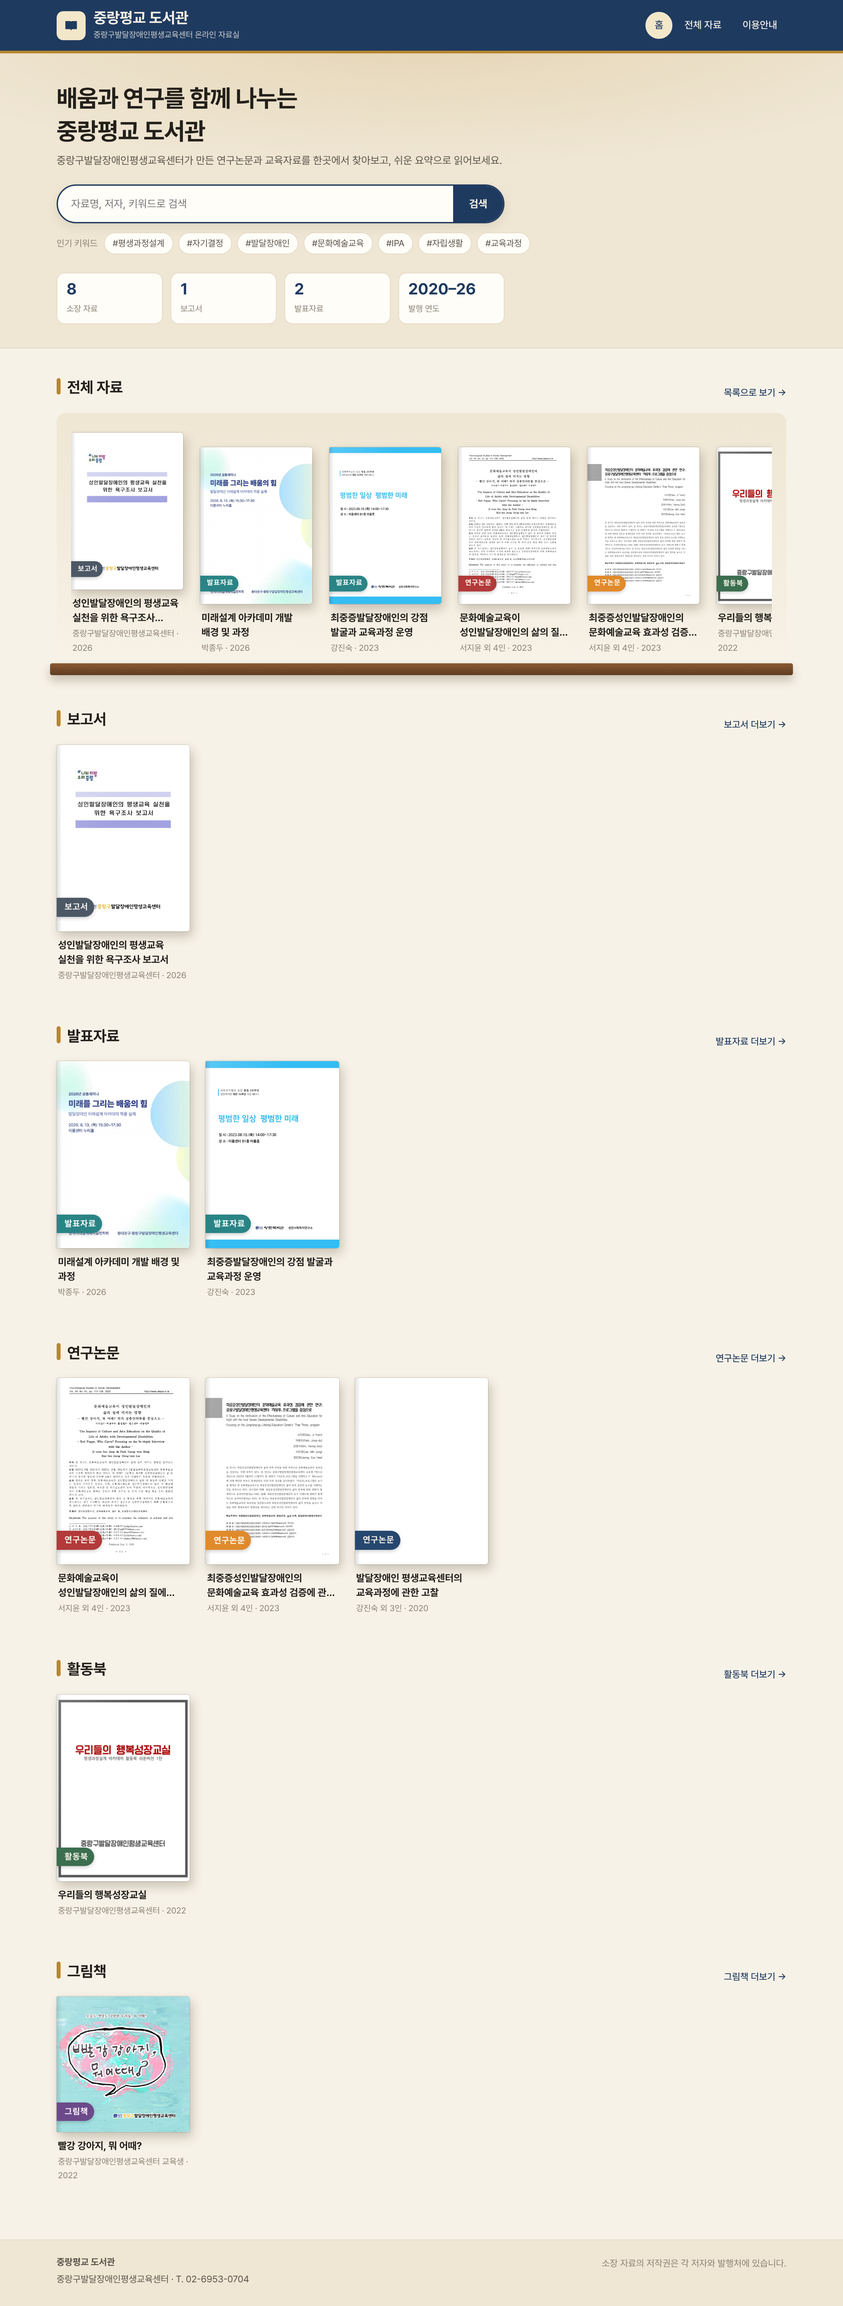
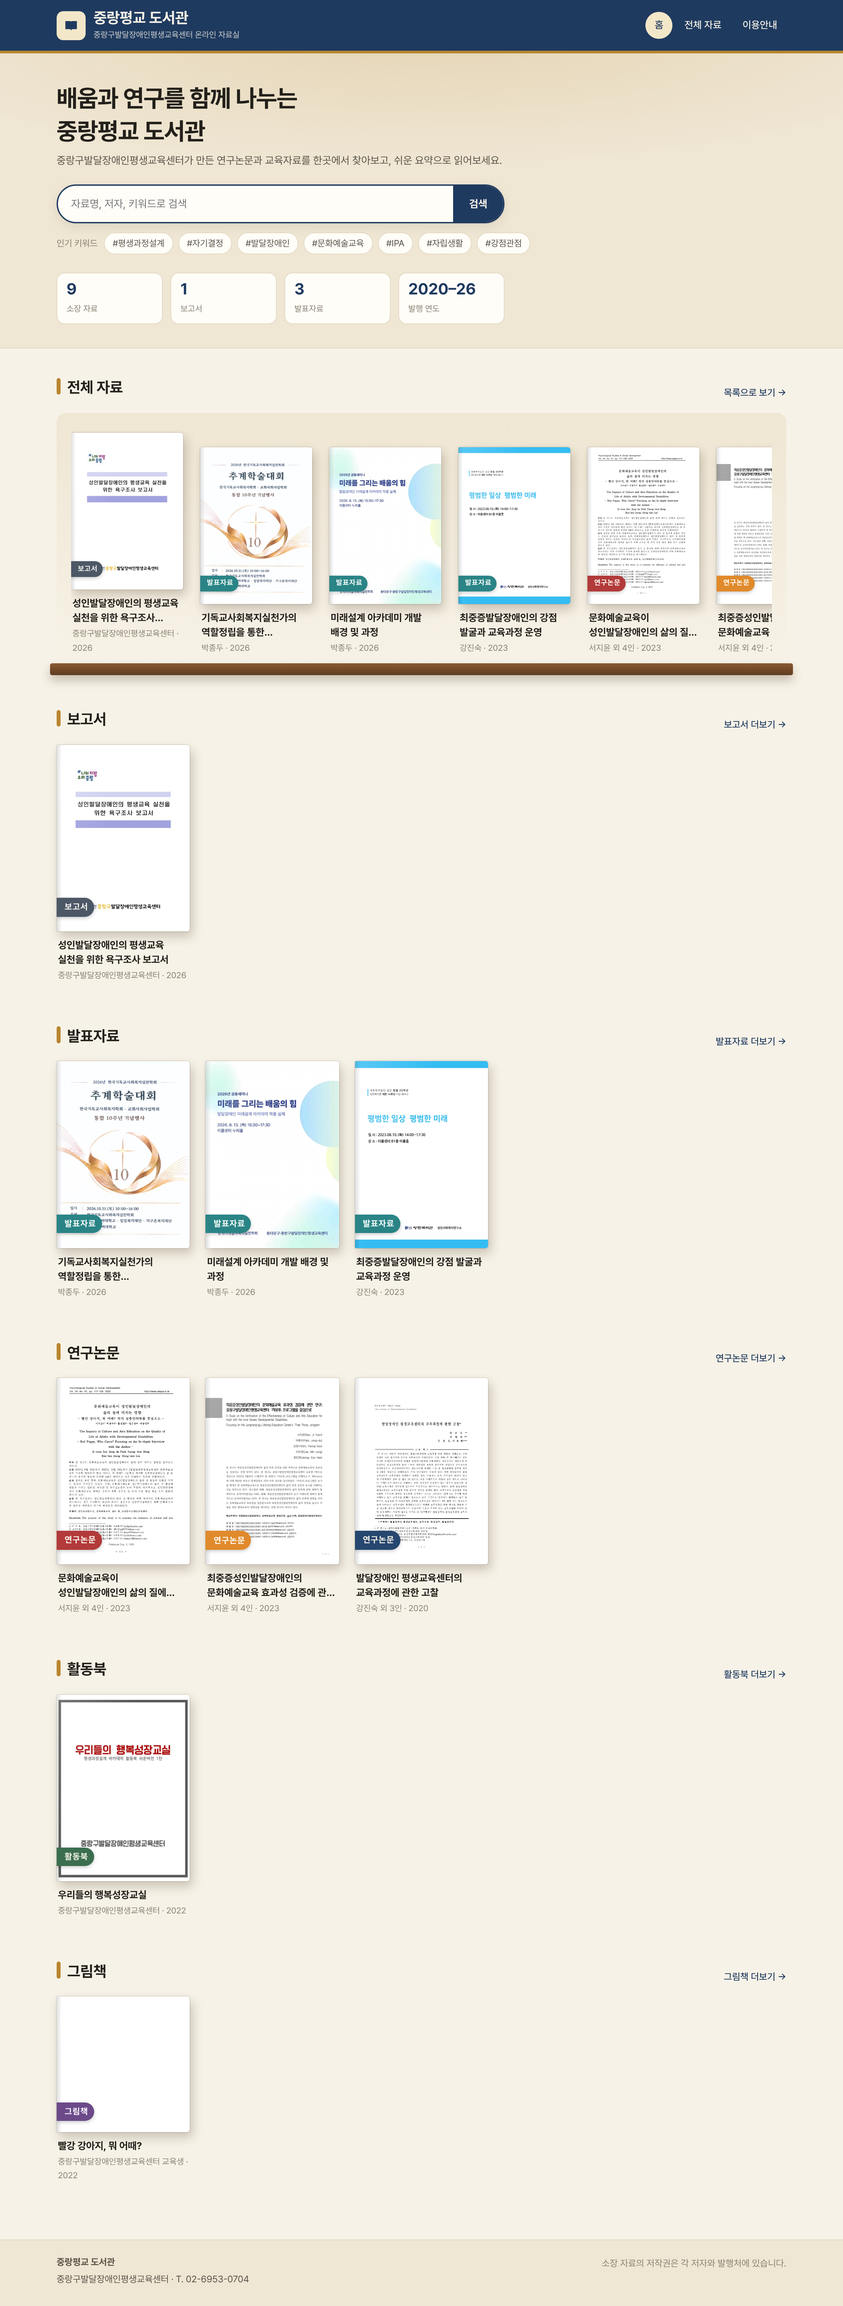
새 자료 추가: 기독교사회복지실천가의 역할정립 발표(2026 추계학술대회)
- 스캔한 학술대회 표지를 표지로 사용(가장자리 정리)
- 필요성, 성민 선행사례(욕구조사 8회 표, 인재상, 친절·전문성 효과, 슈퍼비전), 실천가 6가지 역할, 4가지 과제·실천 원칙, 결론 요약
- 발표 원문(PPTX)은 저장소에 올리지 않고 내려받기 닫음

Claude-Session: https://claude.ai/code/session_017ot5WS4pG4jw3hhbpkp5C4

diff --git a/data/reports.js b/data/reports.js
@@ -17,6 +17,192 @@
 window.REPORTS = {
 
   /* ================================================================ */
+  "christian-welfare-practitioner-2026": {
+    chapters: [
+      {
+        h: "이 자료는?",
+        blocks: [
+          { p: "중랑구발달장애인평생교육센터 박종두 센터장이 2026년 한국기독교사회복지실천학회 추계학술대회에서 발표한 자료입니다. 기독교사회복지가 일반 복지와 구별되는 정체성을 갖추려면 본질적 가치와 전문성을 현장에서 이어 주는 ‘실천가’의 역할이 분명해야 한다고 보고, 사회복지법인 성민의 지역사회 실천 경험을 분석해 실천가의 역할과 과제를 제시합니다." },
+          { table: {
+            caption: "학술대회 정보 (표지 기준)",
+            head: ["항목", "내용"],
+            rows: [
+              ["행사", "2026년 한국기독교사회복지실천학회 추계학술대회 — 한국기독교사회복지학회·교회사회사업학회 통합 10주년 기념행사"],
+              ["일시", "2026년 10월 31일(토) 10:00~16:00"],
+              ["장소", "서울사이버대학교"],
+              ["주최·주관", "주최 한국기독교사회복지실천학회 / 주관 서울사이버대학교, 밀알복지재단, 지구촌복지재단"],
+              ["발표", "박종두 (중랑구발달장애인평생교육센터)"]
+            ]
+          } },
+          { table: {
+            caption: "발표 구성",
+            head: ["부분", "내용"],
+            rows: [
+              ["필요성", "기독교사회복지의 정체성, 생애주기별 복지 욕구, 소속감과 삶의 질, 신앙의 핵심 가치, 사명감과 전문성의 균형, 가치와 전문성을 잇는 실천가"],
+              ["선행사례", "사회복지법인 성민, 욕구조사로 확인한 주민 욕구, 성민 인재상, 친절·전문성의 효과, 강점관점과 영성, 슈퍼비전"],
+              ["선행사례 분석", "영성 중심 복지의 패러다임 전환, 실천가의 정의와 6가지 역할"],
+              ["제언·결론", "가치와 전문성을 함께 키우는 4가지 과제, 생애주기별 실천 원칙, 동역자로 성장"]
+            ]
+          } }
+        ]
+      },
+      {
+        h: "왜 실천가의 역할인가",
+        blocks: [
+          { box: "정체성 = 본질적 가치 + 전문성 + 실천가", title: "기독교사회복지의 정체성" },
+          { ul: [
+            "기독교사회복지의 정체성은 현장에서 일하는 실천가를 통해 구현됩니다. 실천가는 가치를 서비스로 옮기는 매개자입니다.",
+            "현장은 주민의 삶이 있는 지역사회입니다 — 기관 중심에서 주민 중심으로, 노인에 한정하지 않는 전 생애 주민으로.",
+            "일반 복지와 구별되려면 차별적 가치가 지속되고 검증되어야 합니다."
+          ] },
+          { h3: "생애주기별 복지 욕구" },
+          { table: {
+            head: ["대상", "핵심 욕구", "방향"],
+            rows: [
+              ["아동·청소년", "안전한 공간, 돌봄, 성장 지원", "돌봄 대상에서 성장 주체로 (2014 FGI: 아동·청소년에 편중된 공간 → 전 세대 공용 공간 필요)"],
+              ["장애인", "접근 가능한 환경, 자립, 사회참여", "시혜 대상에서 지역사회 구성원으로 (2017 고령 장애인 특화 사업)"],
+              ["가족", "관계 회복, 돌봄 분담", "가족복지 사업으로 확장, 돌봄 부담을 지역사회로 분산"],
+              ["노인", "건강, 경제, 관계, 참여", "성공적 노화 지원과 참여 확대 (2014~2024 모든 조사에서 건강·경제·돌봄이 상위)"]
+            ],
+            note: "전 세대·연령 통합 공동체가 중요 → 평생과정설계"
+          } },
+          { p: "소속감·유대감·신뢰·상호책임의 경험이 참여로 이어지고, 참여가 삶의 질을 높입니다(소속감 → 참여 → 삶의 질). 소속감이 떨어지면 외부 활동과 관계가 줄어듭니다." },
+          { h3: "기독교 신앙의 핵심 가치 — 기능이나 생산성이 아닌 존엄을 기준으로" },
+          { ul: [
+            "하나님의 형상 — 생애주기·장애 여부·생산성과 무관한 존엄",
+            "섬김 — 소외된 이웃 돌봄의 본질적 사명, 찾아가는 서비스",
+            "교제 — 사랑과 환대로 하나님·이웃·지역사회와 관계 회복",
+            "전인적 구원 — 신체·물질에서 정신·영적 갈망까지 포괄하는 지원",
+            "동역자 — 수혜자가 아닌 구성원, 하나님 나라의 동역자"
+          ] },
+          { quote: "하나님 아버지 앞에서 정결하고 더러움이 없는 경건은 곧 고아와 과부를 그 환난 중에 돌보고 또 자기를 지켜 세속에 물들지 아니하는 그것이니라", by: "야고보서 1:27 (발표 인용)" },
+          { h3: "사명감과 전문성의 균형" },
+          { table: {
+            head: ["현재의 한계", "필요한 방향"],
+            rows: [
+              ["사명감에 의존한 일회성 물품 지원", "욕구조사에 기반한 체계적 서비스"],
+              ["타 기관 프로그램 답습, 서비스 중복", "지역 맞춤형 사업 설계"],
+              ["신앙적 역량 훈련 부족", "영성 훈련, 소명 의식 강화"],
+              ["전문 인력 부족", "이용자 중심 전문성 실천, 행정·연구·기획 주도"]
+            ],
+            note: "가치만 있으면 선의에 머물고, 전문성만 있으면 일반 복지와 구별되지 않습니다 → 통합이 필요합니다."
+          } },
+          { p: "실천가의 역할이 모호하면 일반 복지와 구별되지 않거나, 사명감에만 기대다 소진될 위험이 있습니다. 지역사회에서 복합 욕구를 가진 여러 집단을 동시에 만나는 실천가가 ‘무엇을 하는 사람인가’를 정립해야 가치와 전문성을 함께 지킬 수 있습니다." }
+        ]
+      },
+      {
+        h: "선행사례 — 사회복지법인 성민",
+        blocks: [
+          { p: "순복음노원교회를 모체로 한 사회복지법인 성민은 교회의 지역사회 사랑 실천에서 시작해 장애인 선교 → 가족복지 → 지역사회보호 → 노인 돌봄으로, 전 생애 복지로 사업을 넓혀 왔습니다." },
+          { box: "우리는 하나님의 거룩한 백성으로 모든 이웃에게 평생복지를 실천함으로써 하나님의 지경을 넓혀갑니다. — 핵심가치: 하나님 사랑, 창조적 도전, 청렴한 실천, 전문적 성장", title: "성민의 사명" },
+          { p: "발표는 ① 지역사회 실천에서 기독교의 본질적 가치가 구현된 방식, ② 그 실천을 지탱한 전문성(조사·사례관리·슈퍼비전), ③ 실천가 역할의 정립 방향을 분석 틀로, 욕구조사 8회(2014~2024), 만족도 조사(2015~2025), 취약계층 사례관리, 슈퍼비전·연구 역량을 분석 자료로 삼았습니다." },
+          { h3: "조사로 확인한 주민의 복지 욕구 — 조사 대상이 주민 중심으로 이동" },
+          { table: {
+            head: ["연도", "대상", "방법", "핵심 결과", "실천가 역할(제안)"],
+            rows: [
+              ["2014", "주민 150명", "설문+FGI", "휴식·여가 공간 확충 65.6%", "경청자"],
+              ["2016", "노원구 주민 300명", "설문+FGI", "휴식 42.6%, 상담 22.1%, 일자리 30.9%", "연결자"],
+              ["2017", "중계1단지 402세대", "1:1 방문 전수조사", "60대 이상 81.3%, 보건의료 39.8%", "찾아가는 돌봄자"],
+              ["2018", "4개 동 주민 150명", "설문+7대 영역 FGI", "교육 17.5%, 소득 16.2%, 보건 15.5%", "평생복지 설계자"],
+              ["2019", "거주 10년·이용 5년 주민", "포토보이스 9단계", "공간, 소통 프로그램, 주민 주도 나눔", "동역자 세우기"],
+              ["2020", "중계1단지 415세대", "부스 1:1+IPA", "경제 33.2%, 보건의료 27.6%", "위기 대응자"],
+              ["2022", "60세 이상 203명", "1:1 심층, 노화 척도", "70대 이상 85.2%, 1인 가구 46.8%", "분석가"],
+              ["2024", "중계1단지 361세대", "1:1 대면 면접", "경제지원 19.3%, 물질지원 기대 23.4%", "지역 변화 대응자"]
+            ]
+          } },
+          { h3: "성민 인재상" },
+          { table: {
+            head: ["인재상", "구성"],
+            rows: [
+              ["하나님의 사랑", "고객지향 + 협력 — 차별 없는 존중, 경청과 자기결정 존중, 고객의 이익 우선, 자발적 협력과 갈등 해결"],
+              ["청렴한 실천", "윤리적 민감성 + 책무성 — 윤리강령·규정 준수, 정직한 행동, 자산의 투명한 사용"],
+              ["창조적 도전", "창의적 사고 + 추진력(실행력) — 새로운 사업 제안과 수행, 정책 변화의 신속한 반영"],
+              ["전문적 성장", "주도적 성장 + 전문성 강화 — 교육·훈련 참여, 자기성찰, 지식과 노하우 공유"]
+            ]
+          } },
+          { h3: "실천을 지탱한 전문성" },
+          { ul: [
+            "친절과 전문성의 효과 — 2015~2025 만족도 조사를 쌓아 ‘직원 친절도·전문성 → 기관 만족 → 주민 삶의 도움’으로 이어지는 유의한 간접효과 경로를 검증. 친절(태도)과 전문성(기술)이 결합할 때 성과가 커지며, 실천가의 자질이 서비스의 핵심 동력",
+            "강점 관점과 영성의 결합 — 강점 관점·임파워먼트·기독교 영성을 결합해 문제가 아닌 강점 중심으로 사정. 문제 해결자에서 곁에서 함께하는 동행자로 전환하자 당사자의 욕구는 줄고 참여는 늘어 사회참여로 연결",
+            "슈퍼비전을 통한 전문가 성장 — 슈퍼비전으로 직원의 소진을 줄이고 자기효능감을 높여 지속 가능성 확보, 슈퍼비전 연구보고서로 실천 근거를 쌓고 지역사회·교회·기관과 공유"
+          ] }
+        ]
+      },
+      {
+        h: "선행사례 분석 — 실천가란 누구인가",
+        blocks: [
+          { table: {
+            caption: "영성 중심 복지의 패러다임 전환",
+            head: ["영역", "이전", "전환"],
+            rows: [
+              ["실무자", "서비스 전달자", "그리스도의 정신을 체현하는 능동적 사명자 — 지속적인 영성 훈련과 윤리적 민감성 교육 병행"],
+              ["돌봄", "취약계층 밀집지역의 고령화·고립에 대한 접근", "전 세대의 육체적·정서적 갈망을 살피는 성육신적 돌봄"],
+              ["공동체", "무너진 지역사회의 공동체 의식", "서로 나누고 협력하는 코이노니아 공동체 구축(선교적 과업)"]
+            ]
+          } },
+          { box: "본질적 가치 ∩ 전문성 = 실천가. 가치 없는 전문성은 일반 복지, 전문성 없는 가치는 일회성 선의입니다.", title: "통합의 필요성" },
+          { ul: [
+            "본질적 가치의 구현 — 코이노니아 → 소통 공간, 디아코니아 → 찾아가는 돌봄, 동역자 정신 → 주민 주도 사업",
+            "전문성의 내용 — 과학적 욕구 탐구, 강점 기반 사례관리, 직원 성장을 돕는 슈퍼비전",
+            "실천가란 — 하나님 사랑의 가치를 서비스로 번역하고, 전문성으로 검증하며, 주민을 주체로 세우는 사람"
+          ] },
+          { h3: "기독교사회복지실천가의 6가지 역할" },
+          { table: {
+            head: ["역할", "내용"],
+            rows: [
+              ["① 섬김의 돌봄자", "디아코니아, 사례관리, 찾아가는 서비스"],
+              ["② 소통의 조성자", "코이노니아, 공간 설계, 주민모임 지원"],
+              ["③ 주민을 주체로 세우는 지원자", "동역자, 강점 관점, 주민 참여 설계"],
+              ["④ 욕구를 확인하는 조사자", "이웃의 형편 살피기 — 설문, FGI, IPA, 델파이 등"],
+              ["⑤ 통합돌봄 연결자", "통합적 회복 — 교회·복지관·의료기관 협력"],
+              ["⑥ 성장하는 전문가", "슈퍼비전, 영성 훈련 등"]
+            ]
+          } }
+        ]
+      },
+      {
+        h: "제언 — 가치와 전문성을 함께 키우는 과제",
+        blocks: [
+          { ol: [
+            "영성 중심 슈퍼비전의 제도화 — 실천가를 돌보는 체계적 지지 시스템, 정기적인 기도·말씀 나눔, 신앙 안에서 성장하는 조직 문화",
+            "증거 기반·성경적 가치 통합 모델 — 만족도 → 삶의 도움 경로를 학술적으로 증명해 교회 밖에서도 인정받는 신뢰 확보, 통합 모델 확산",
+            "관계 중심 코이노니아 공동체 — 단순 지원을 넘어 주민모임·서로돌봄 활성화, 주민 주도 자치 활동, 관계망으로 고립 해소",
+            "연령 통합 디아코니아 확장 — 노인·청소년·장애인이 함께하는 통합 복지 선교 모델, 지역 네트워크 안전망, 평생복지실천으로 전 세대 자립 지원"
+          ] },
+          { h3: "기독교 복지 가치의 실천 원칙" },
+          { table: {
+            head: ["원칙", "노인", "장애인", "아동·청소년"],
+            rows: [
+              ["통전적 돌봄", "사회복지사·교회·의료기관의 통합 사례관리 → 소득·의료·주거·영적 지원", "의료·재활·주거·사회참여 통합 지원", "가정·학교·지역의 통합 돌봄, 정서 지지"],
+              ["코이노니아 공간", "안부 확인 이웃돌봄, 낮 시간 공동체 활동", "접근 가능한 환경, 통합적 만남의 장", "안전한 공용 공간, 세대 간 교류"],
+              ["소명 기반 참여", "노노케어, 재능 나눔 활동 강화", "강점 기반 실천, 또래 지지자", "봉사·돌봄 경험, 또래 리더십"],
+              ["동역자로 세우기", "보호 대상 → 하나님 나라의 동역자", "시혜 대상 → 지역사회 구성원", "돌봄 대상 → 성장하는 주체"]
+            ],
+            note: "발표 메모에 따르면 노인 열은 연구 결과의 제언이고, 장애인·아동·청소년 열은 그 원칙을 넓힌 발표자의 제안입니다."
+          } },
+          { box: "‘무엇을 줄 것인가’에서 ‘어떻게 그리스도의 사랑 안에서 함께 살아갈 것인가’로", title: "질문의 전환" }
+        ]
+      },
+      {
+        h: "결론 — 함께 살아가는 동역자로",
+        blocks: [
+          { table: {
+            head: ["구분", "내용"],
+            rows: [
+              ["본질적 가치", "생애주기·장애 여부와 무관한 하나님의 형상, 존엄한 존재"],
+              ["전문성", "욕구 탐구·사례관리·슈퍼비전을 통한 가치의 검증과 지속"],
+              ["실천가와 공동체의 비전", "돌봄자·관계 조성자·주민을 동역자로 세우는 사람 → 거룩한 사랑의 공동체"]
+            ]
+          } },
+          { p: "수혜자에서 하나님의 동역자로 — 존엄하게 함께 살아가는 거룩한 사랑의 공동체를 이루는 것이 기독교사회복지실천가의 목표입니다." },
+          { quote: "우리는 하나님의 거룩한 백성으로 모든 이웃에게 평생복지를 실천함으로써 하나님의 지경을 넓혀갑니다.", by: "발표 마지막 장" },
+          { p: "참고문헌으로 마들종합사회복지관의 지역사회 욕구조사·만족도 조사·사례연구집·슈퍼비전 연구보고서(2014~2026)와 기독교 사회복지·노인 주거·돌봄 관련 논문 등 55편을 제시했습니다." }
+        ]
+      }
+    ]
+  },
+
+  /* ================================================================ */
   "strength-curriculum-seminar-2023": {
     chapters: [
       {

diff --git a/data/catalog.js b/data/catalog.js
@@ -24,6 +24,38 @@
  */
 window.CATALOG = [
   {
+    id: "christian-welfare-practitioner-2026",
+    format: "PPTX",
+    firstPage: "assets/firstpages/christian-welfare-practitioner-2026.jpg",
+    callNo: "발표-2026-02",
+    type: "발표자료",
+    title: "기독교사회복지실천가의 역할정립을 통한 기독교사회복지의 본질적 가치와 전문성 모색",
+    subtitle: "2026 한국기독교사회복지실천학회 추계학술대회 발표자료",
+    authors: ["박종두"],
+    publisher: "2026 한국기독교사회복지실천학회 추계학술대회 (한국기독교사회복지학회·교회사회사업학회 통합 10주년 기념)",
+    year: 2026,
+    pages: 27,
+    pagesLabel: "슬라이드 27장",
+    keywords: ["기독교사회복지", "실천가", "본질적 가치", "전문성", "슈퍼비전", "강점관점"],
+    cover: { theme: "teal", motif: "heart" },
+    summary: {
+      oneLine:
+        "기독교사회복지의 정체성을 ‘본질적 가치 + 전문성 + 실천가’로 보고, 사회복지법인 성민의 욕구조사 8회(2014~2024)·만족도 조사·사례관리·슈퍼비전 경험을 분석해 기독교사회복지실천가의 6가지 역할과 4가지 과제를 제시한 2026년 추계학술대회 발표자료입니다.",
+      easy: [
+        "교회가 하는 복지가 어떤 마음과 실력으로 이루어져야 하는지 이야기하는 발표예요.",
+        "모든 사람은 장애가 있든 없든, 나이가 많든 적든 소중해요.",
+        "복지 일을 하는 사람은 따뜻한 마음과 전문 실력을 함께 가져야 해요.",
+        "도움을 받기만 하는 사람이 아니라, 함께 살아가는 동료가 되도록 돕자고 해요."
+      ],
+      stats: [
+        { label: "분석한 욕구조사", value: "8회" },
+        { label: "실천가의 역할", value: "6가지" },
+        { label: "제언 과제", value: "4가지" },
+        { label: "학술대회", value: "2026. 10. 31." }
+      ]
+    }
+  },
+  {
     id: "needs-survey-report-2026",
     original: "files/originals/needs-survey-report-2026.pdf",
     format: "PDF",

diff --git a/CLAUDE.md b/CLAUDE.md
@@ -20,7 +20,7 @@
 
 ## 새 자료가 올라오면 (항상 같은 방식으로)
 1. 원문을 `files/originals/<id>.<확장자>` 로 복사 (id: `영문-요약명-발행연도`, 내용은 바꾸지 않음)
-   - 원문 공개를 원하지 않는 자료는 복사하지 않고 catalog에서 `original`을 뺌 → 상세 페이지에 “원문을 내려받을 수 없어요” 표시 (현재: 우리들의 행복성장교실, 미래설계 아카데미 개발 배경 및 과정, 빨강 강아지 뭐 어때?, 최중증발달장애인의 강점 발굴과 교육과정 운영)
+   - 원문 공개를 원하지 않는 자료는 복사하지 않고 catalog에서 `original`을 뺌 → 상세 페이지에 “원문을 내려받을 수 없어요” 표시 (현재: 우리들의 행복성장교실, 미래설계 아카데미 개발 배경 및 과정, 빨강 강아지 뭐 어때?, 최중증발달장애인의 강점 발굴과 교육과정 운영, 기독교사회복지실천가의 역할정립 발표)
    - 원문에 사진·그림이 많아도 사이트에는 저장하지 않음(표지 이미지만). 사례 속 실명은 요약에서 A·B·C로 바꿈
 2. 원문 읽기: PDF는 `pdftotext -layout`, HWP는 `pip install olefile && python3 -I tools/hwp2txt.py <파일>`
    - PPT(PPTX): 글자는 `python-pptx`로 슬라이드별 추출, 그래프·표 사진은 `soffice --headless --convert-to pdf` 후 `pdftoppm`으로 그림으로 보고 읽음. 사진으로 된 표처럼 숫자를 확실히 읽을 수 없는 내용은 요약에 넣지 않고 그렇게 밝힘
